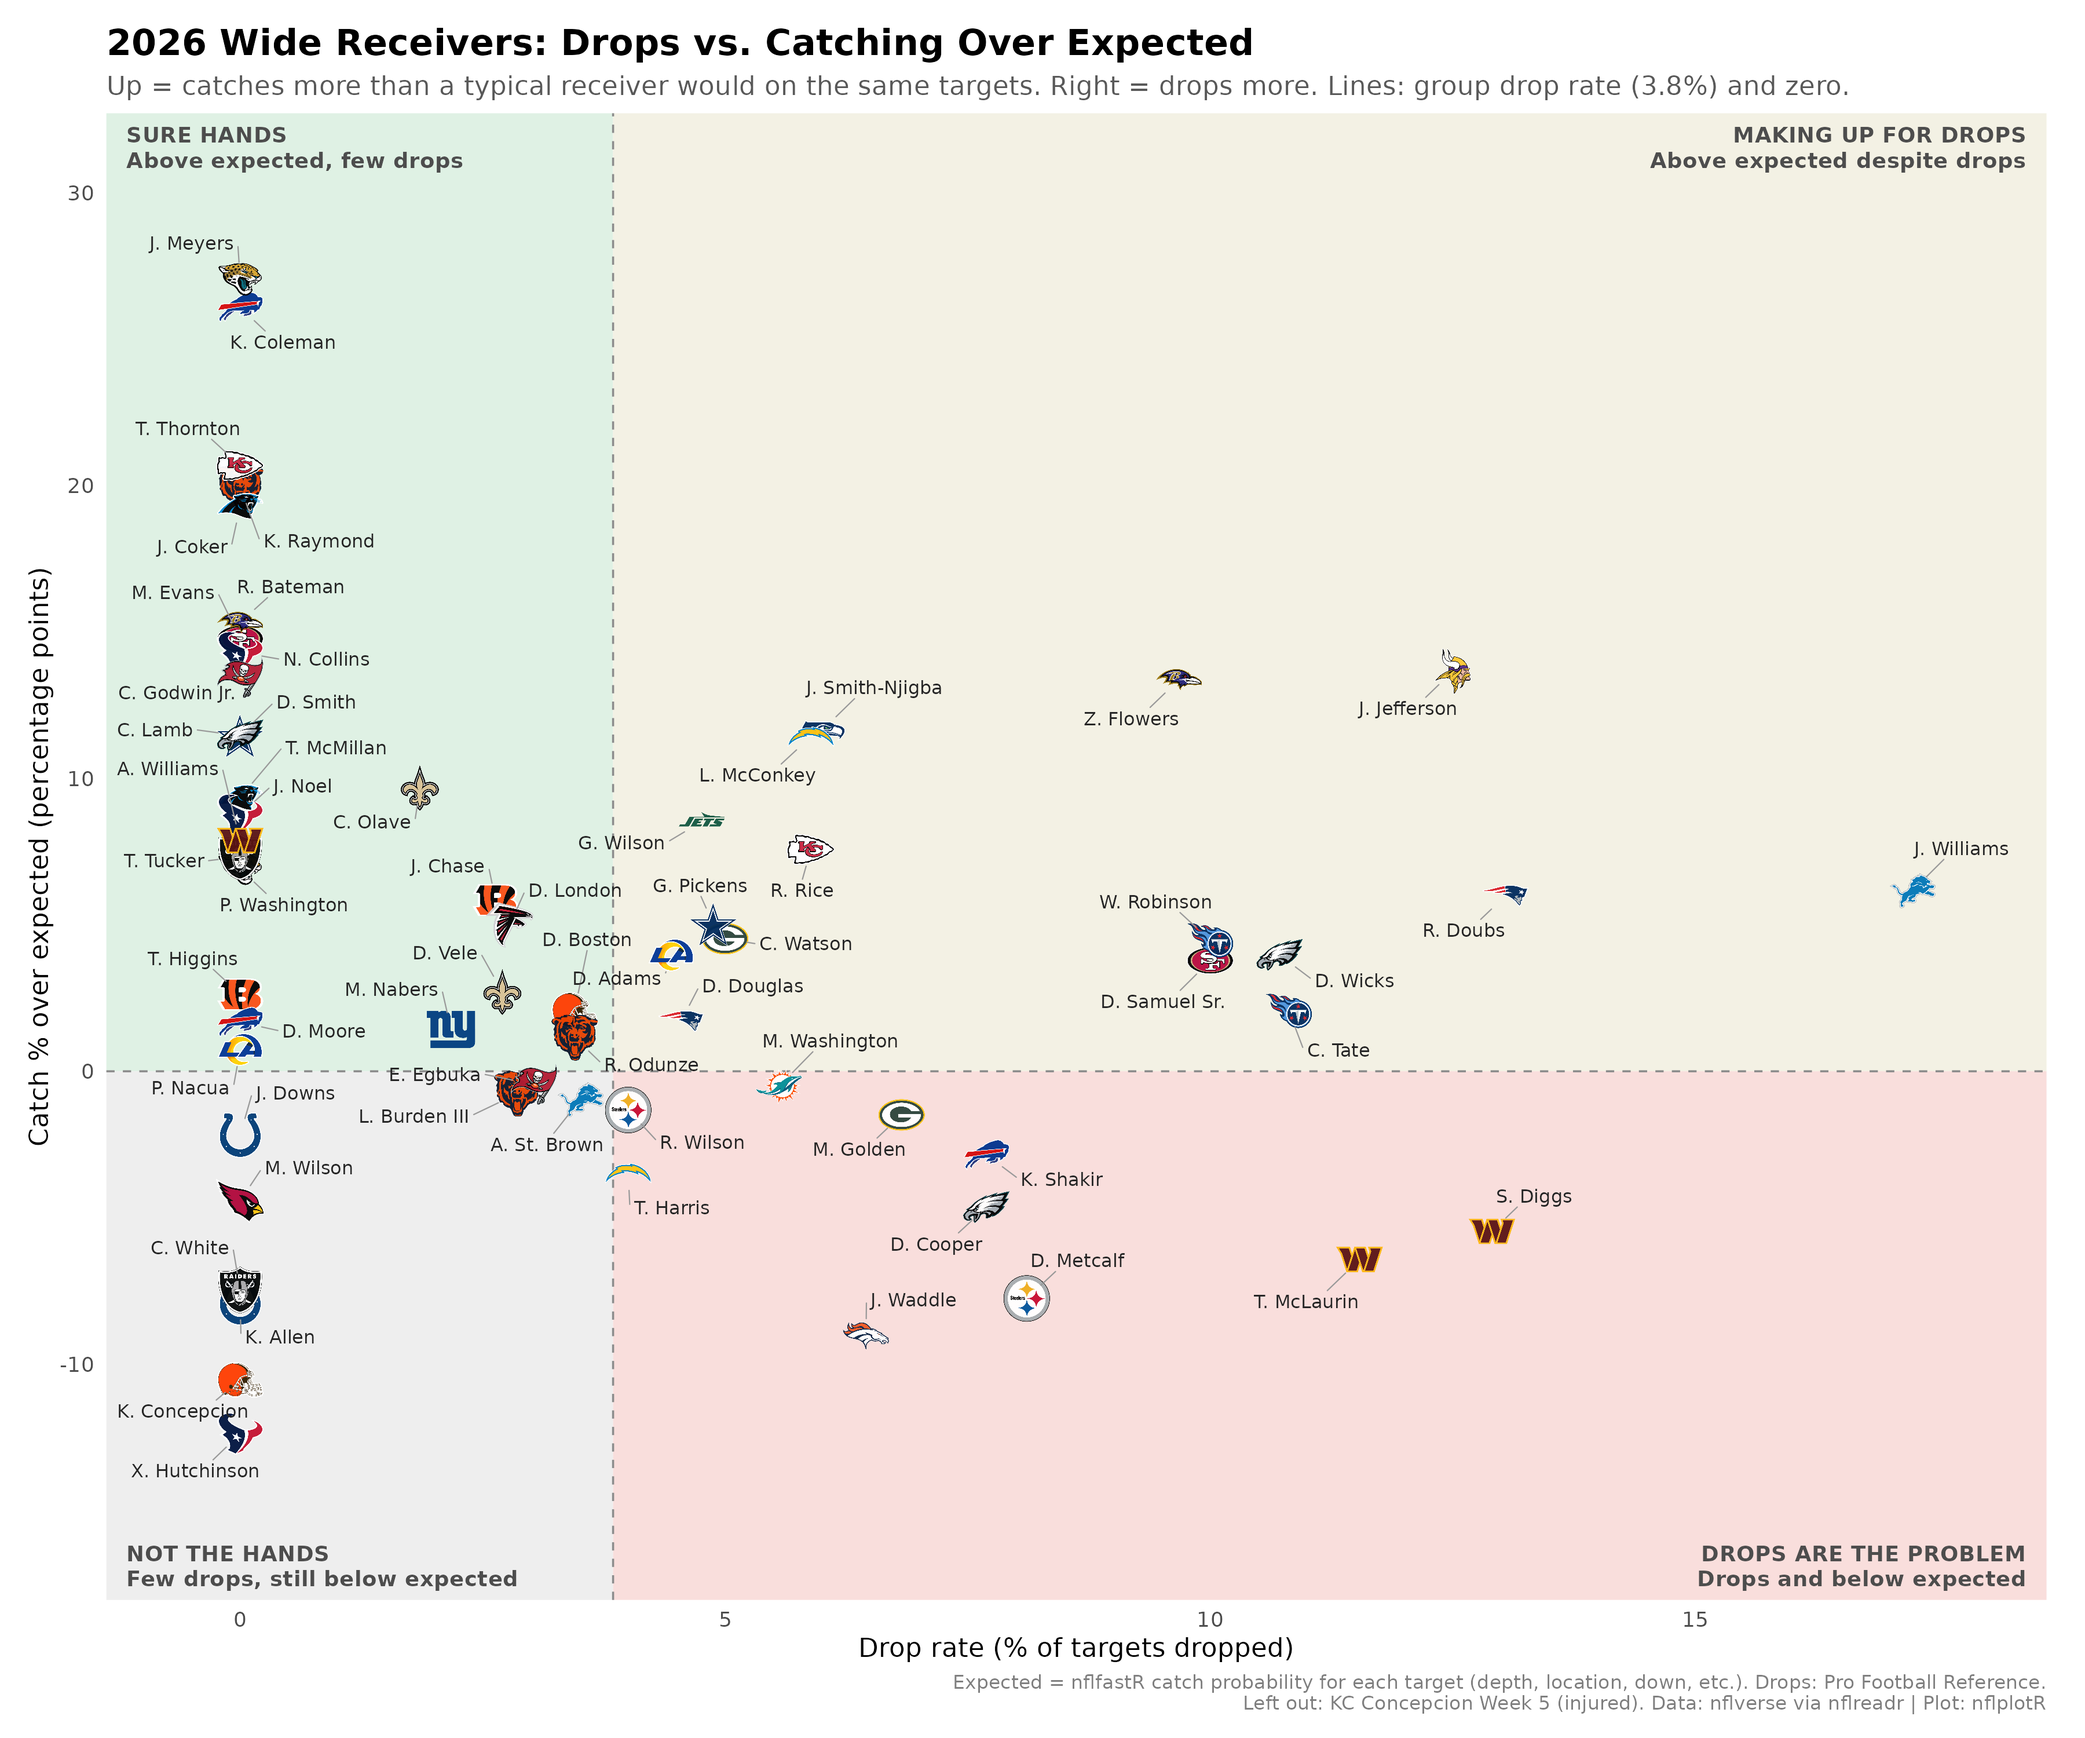
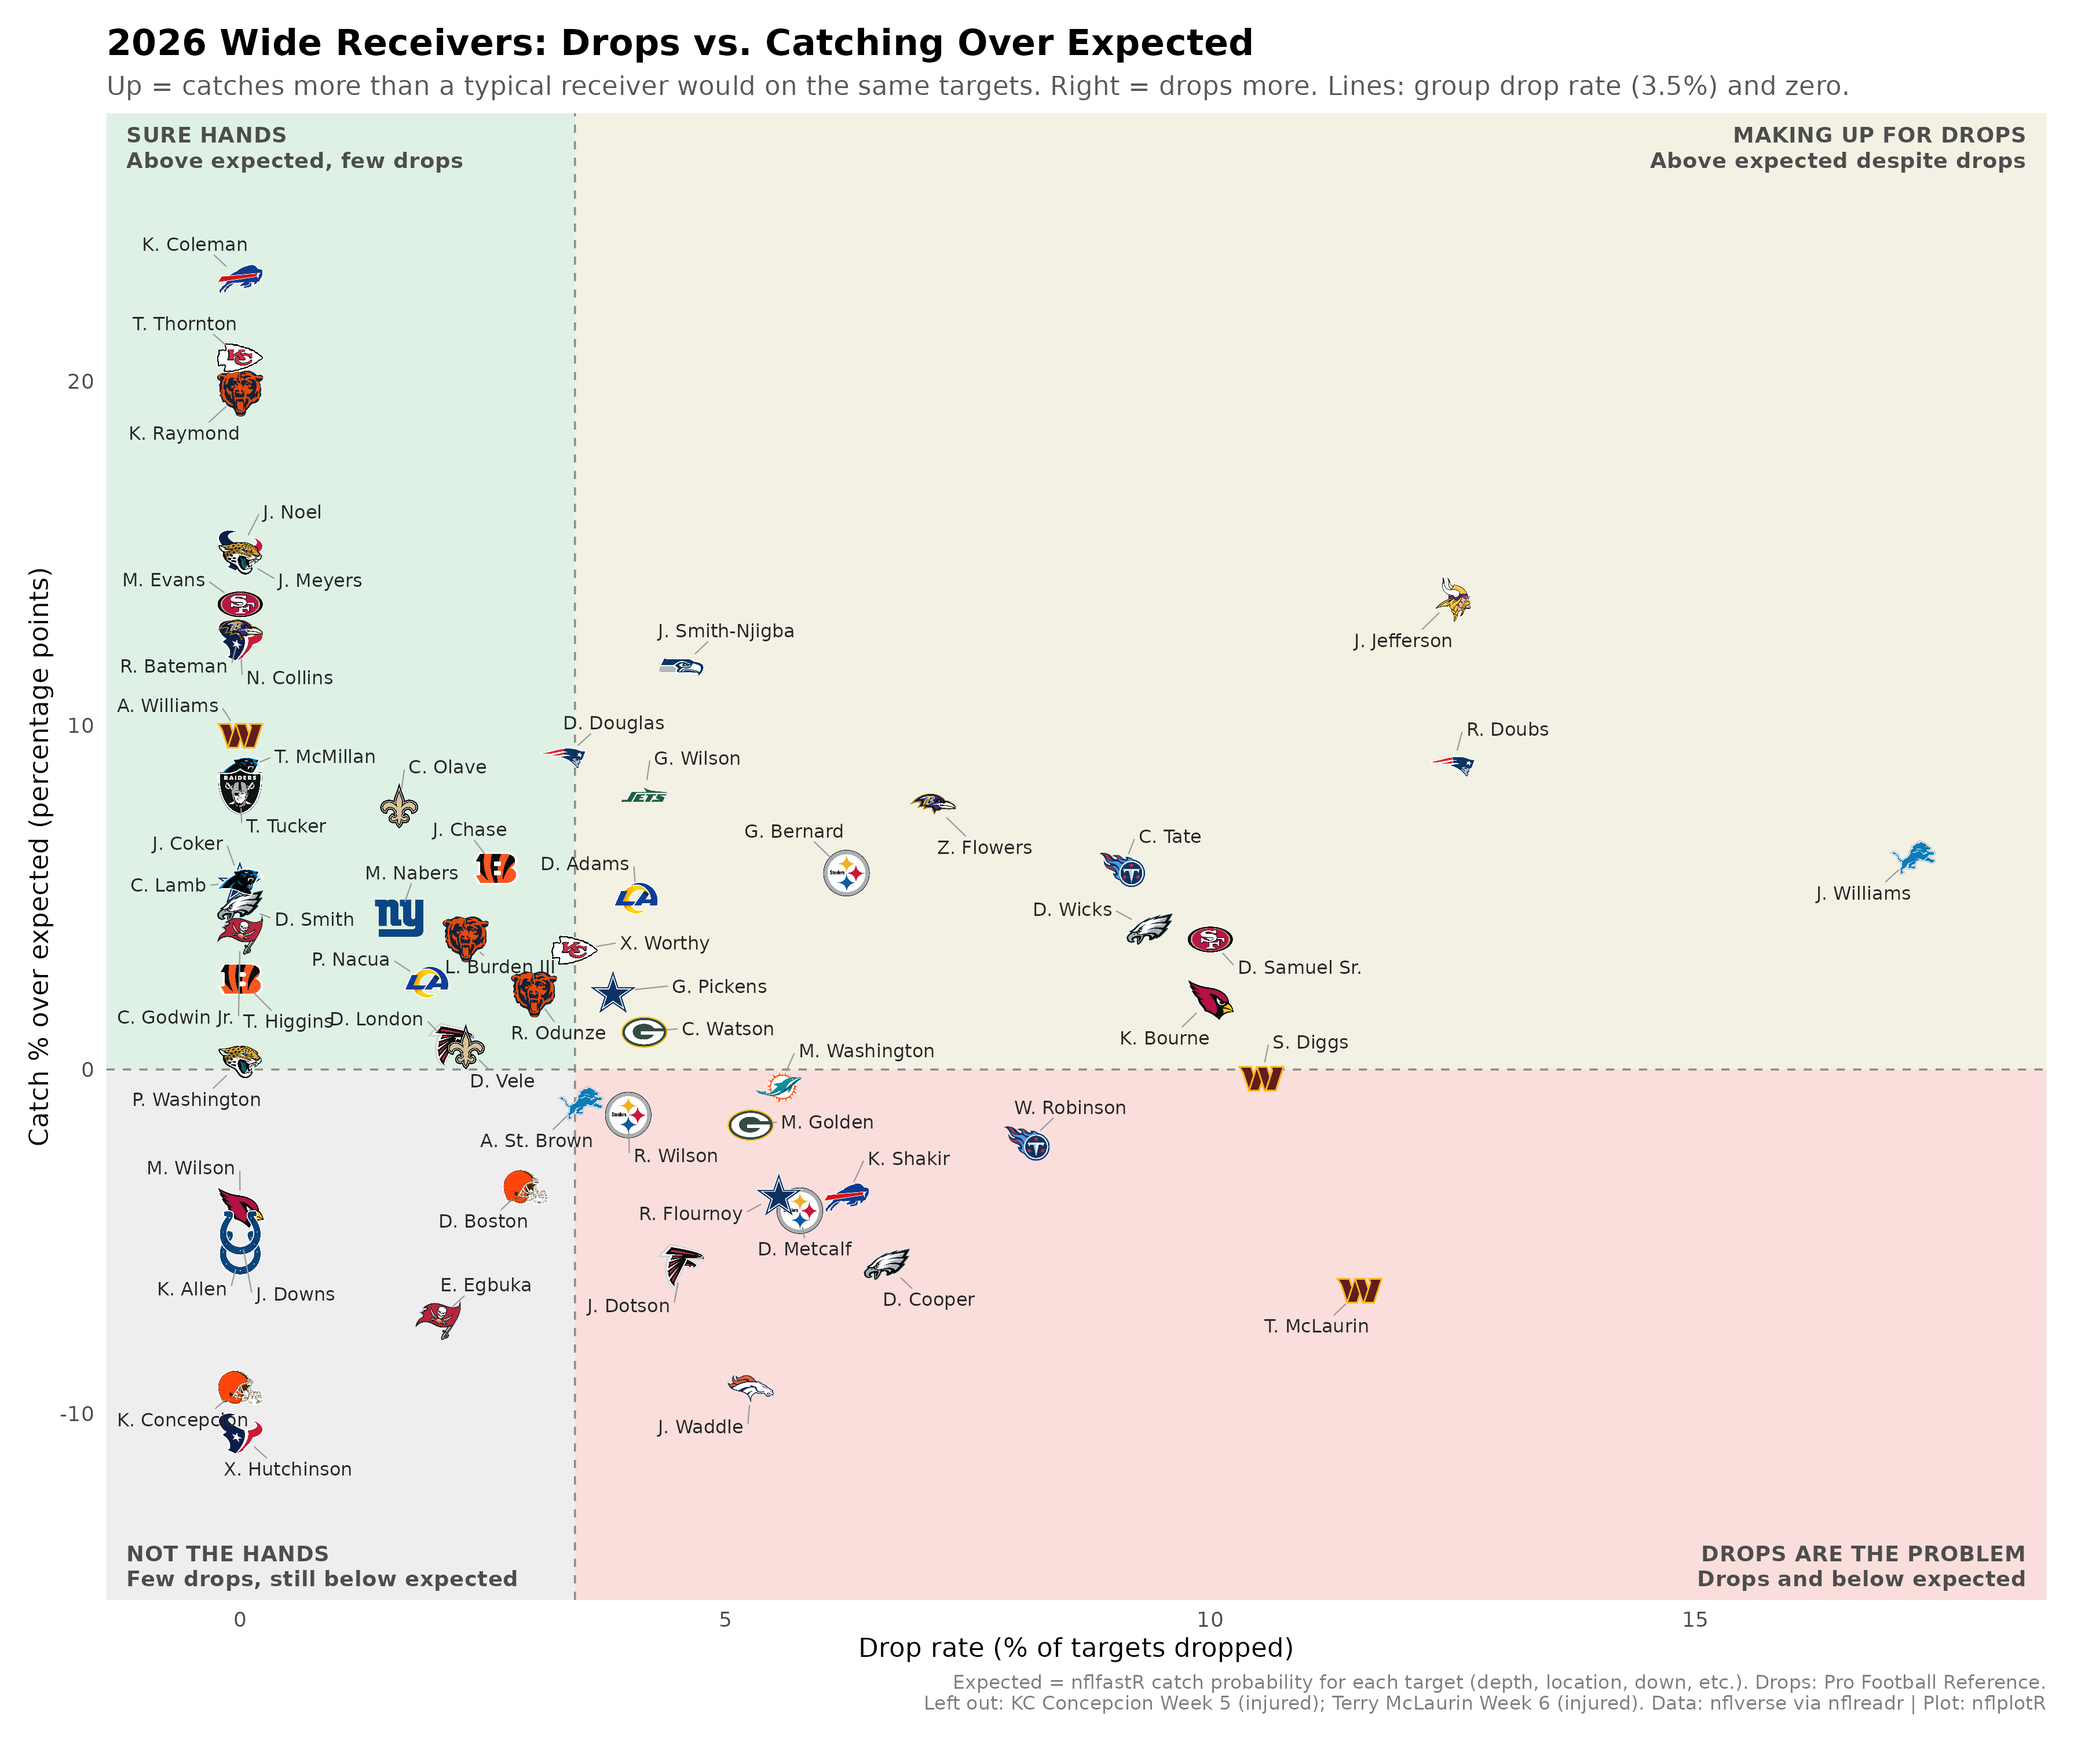
WR charts and catch-quality table through all of Week 6
Leave out Terry McLaurin's Week 6 (injured after one catch) alongside
KC Concepcion's Week 5.

Claude-Session: https://claude.ai/code/session_01T3MxV1CJCZUZ2BwivdaqN5

diff --git a/analysis/wr-catch-quality/wr_catch_quality_2026.md b/analysis/wr-catch-quality/wr_catch_quality_2026.md
@@ -3,68 +3,68 @@
 - **Avg catch probability %**: how often a typical receiver catches targets like his (nflfastR model). Lower = harder targets (deeper, tighter windows, worse spots).
 - **Catch % over expected**: his catch rate minus that average, on targets with a catch probability. Positive = catching more than expected.
 - **Drop rate %**: Pro Football Reference drops divided by targets.
-- Group drop rate: 3.8%. Left out: KC Concepcion Week 5 (injured).
+- Group drop rate: 3.5%. Left out: KC Concepcion Week 5 (injured); Terry McLaurin Week 6 (injured).
 
 | Player | Team | Games | Targets | Catches | Catch % | Avg catch probability % | Catch % over expected | Drops | Drop rate % |
 |---|---|---|---|---|---|---|---|---|---|
-| Jakobi Meyers | JAX | 5 | 18 | 15 | 83.3 | 56.3 | 27.0 | 0 | 0.0 |
-| Keon Coleman | BUF | 5 | 18 | 15 | 83.3 | 57.2 | 26.1 | 0 | 0.0 |
+| Keon Coleman | BUF | 6 | 24 | 19 | 79.2 | 56.2 | 23.0 | 0 | 0.0 |
 | Tyquan Thornton | KC | 4 | 15 | 11 | 73.3 | 52.6 | 20.7 | 0 | 0.0 |
-| Kalif Raymond | CHI | 5 | 27 | 24 | 88.9 | 68.9 | 20.0 | 0 | 0.0 |
-| Jalen Coker | CAR | 3 | 22 | 18 | 81.8 | 62.5 | 19.3 | 0 | 0.0 |
-| Rashod Bateman | BAL | 5 | 21 | 16 | 76.2 | 60.9 | 15.3 | 0 | 0.0 |
-| Mike Evans | SF | 5 | 34 | 24 | 70.6 | 55.8 | 14.8 | 0 | 0.0 |
-| Nico Collins | HOU | 3 | 25 | 19 | 76.0 | 61.7 | 14.3 | 0 | 0.0 |
+| Kalif Raymond | CHI | 6 | 29 | 26 | 89.7 | 70.0 | 19.6 | 0 | 0.0 |
+| Jaylin Noel | HOU | 6 | 21 | 17 | 81.0 | 65.9 | 15.1 | 0 | 0.0 |
+| Jakobi Meyers | JAX | 6 | 28 | 20 | 71.4 | 56.6 | 14.9 | 0 | 0.0 |
 | Justin Jefferson | MIN | 4 | 24 | 19 | 79.2 | 65.5 | 13.7 | 3 | 12.5 |
-| Chris Godwin Jr. | TB | 5 | 21 | 19 | 90.5 | 77.0 | 13.4 | 0 | 0.0 |
-| Zay Flowers | BAL | 4 | 31 | 26 | 83.9 | 70.5 | 13.4 | 3 | 9.7 |
-| Jaxon Smith-Njigba | SEA | 5 | 50 | 37 | 74.0 | 62.4 | 11.6 | 3 | 6.0 |
-| DeVonta Smith | PHI | 3 | 27 | 19 | 70.4 | 58.9 | 11.5 | 0 | 0.0 |
-| CeeDee Lamb | DAL | 5 | 51 | 39 | 76.5 | 65.0 | 11.5 | 0 | 0.0 |
-| Ladd McConkey | LAC | 4 | 17 | 12 | 70.6 | 59.2 | 11.4 | 1 | 5.9 |
-| Chris Olave | NO | 5 | 54 | 39 | 72.2 | 62.5 | 9.7 | 1 | 1.9 |
-| Tetairoa McMillan | CAR | 4 | 39 | 26 | 66.7 | 57.3 | 9.4 | 0 | 0.0 |
-| Jaylin Noel | HOU | 5 | 17 | 13 | 76.5 | 67.7 | 8.8 | 0 | 0.0 |
-| Garrett Wilson | NYJ | 5 | 42 | 31 | 73.8 | 65.3 | 8.5 | 2 | 4.8 |
-| Antonio Williams | WAS | 5 | 22 | 15 | 68.2 | 60.3 | 7.9 | 0 | 0.0 |
-| Rashee Rice | KC | 3 | 17 | 13 | 76.5 | 68.9 | 7.6 | 1 | 5.9 |
-| Tre Tucker | LV | 5 | 28 | 19 | 67.9 | 60.5 | 7.3 | 0 | 0.0 |
-| Parker Washington | JAX | 5 | 35 | 22 | 62.9 | 55.9 | 6.9 | 0 | 0.0 |
+| Mike Evans | SF | 6 | 39 | 27 | 69.2 | 55.7 | 13.5 | 0 | 0.0 |
+| Rashod Bateman | BAL | 6 | 22 | 16 | 72.7 | 60.0 | 12.8 | 0 | 0.0 |
+| Nico Collins | HOU | 4 | 30 | 22 | 73.3 | 60.9 | 12.5 | 0 | 0.0 |
+| Jaxon Smith-Njigba | SEA | 6 | 66 | 49 | 74.2 | 62.5 | 11.7 | 3 | 4.5 |
+| Antonio Williams | WAS | 6 | 26 | 18 | 69.2 | 59.5 | 9.7 | 0 | 0.0 |
+| DeMario Douglas | NE | 6 | 30 | 20 | 66.7 | 57.6 | 9.0 | 1 | 3.3 |
+| Romeo Doubs | NE | 6 | 24 | 14 | 58.3 | 49.5 | 8.8 | 3 | 12.5 |
+| Tetairoa McMillan | CAR | 5 | 48 | 32 | 66.7 | 58.0 | 8.7 | 0 | 0.0 |
+| Tre Tucker | LV | 6 | 35 | 24 | 68.6 | 60.5 | 8.1 | 0 | 0.0 |
+| Garrett Wilson | NYJ | 6 | 48 | 35 | 72.9 | 65.0 | 7.9 | 2 | 4.2 |
+| Zay Flowers | BAL | 5 | 42 | 32 | 76.2 | 68.5 | 7.7 | 3 | 7.1 |
+| Chris Olave | NO | 6 | 61 | 43 | 70.5 | 62.8 | 7.7 | 1 | 1.6 |
 | Jameson Williams | DET | 5 | 29 | 18 | 62.1 | 55.9 | 6.2 | 5 | 17.2 |
-| Romeo Doubs | NE | 5 | 23 | 13 | 56.5 | 50.5 | 6.0 | 3 | 13.0 |
 | Ja'Marr Chase | CIN | 5 | 38 | 27 | 71.1 | 65.2 | 5.8 | 1 | 2.6 |
-| George Pickens | DAL | 5 | 41 | 27 | 65.9 | 60.8 | 5.0 | 2 | 4.9 |
-| Drake London | ATL | 5 | 36 | 27 | 75.0 | 70.0 | 5.0 | 1 | 2.8 |
-| Christian Watson | GB | 5 | 40 | 26 | 65.0 | 60.5 | 4.5 | 2 | 5.0 |
-| Wan'Dale Robinson | TEN | 5 | 30 | 22 | 73.3 | 68.9 | 4.5 | 3 | 10.0 |
-| Dontayvion Wicks | PHI | 5 | 28 | 17 | 60.7 | 56.7 | 4.0 | 3 | 10.7 |
-| Davante Adams | LA | 5 | 45 | 27 | 60.0 | 56.0 | 4.0 | 2 | 4.4 |
+| Carnell Tate | TEN | 6 | 44 | 29 | 65.9 | 60.1 | 5.8 | 4 | 9.1 |
+| Germie Bernard | PIT | 5 | 32 | 24 | 75.0 | 69.3 | 5.7 | 2 | 6.2 |
+| Jalen Coker | CAR | 4 | 35 | 24 | 68.6 | 63.1 | 5.5 | 0 | 0.0 |
+| CeeDee Lamb | DAL | 6 | 69 | 48 | 69.6 | 64.1 | 5.4 | 0 | 0.0 |
+| Davante Adams | LA | 6 | 49 | 30 | 61.2 | 56.3 | 5.0 | 2 | 4.1 |
+| DeVonta Smith | PHI | 4 | 41 | 26 | 63.4 | 58.7 | 4.7 | 0 | 0.0 |
+| Malik Nabers | NYG | 6 | 61 | 41 | 67.2 | 62.8 | 4.4 | 1 | 1.6 |
+| Dontayvion Wicks | PHI | 6 | 32 | 19 | 59.4 | 55.3 | 4.1 | 3 | 9.4 |
+| Chris Godwin Jr. | TB | 6 | 29 | 23 | 79.3 | 75.4 | 3.9 | 0 | 0.0 |
 | Deebo Samuel Sr. | SF | 5 | 20 | 16 | 80.0 | 76.2 | 3.8 | 2 | 10.0 |
-| Devaughn Vele | NO | 5 | 37 | 25 | 67.6 | 64.9 | 2.7 | 1 | 2.7 |
+| Luther Burden III | CHI | 6 | 43 | 31 | 72.1 | 68.3 | 3.8 | 1 | 2.3 |
+| Xavier Worthy | KC | 5 | 29 | 21 | 72.4 | 68.9 | 3.5 | 1 | 3.4 |
 | Tee Higgins | CIN | 5 | 43 | 27 | 62.8 | 60.2 | 2.6 | 0 | 0.0 |
-| Denzel Boston | CLE | 5 | 29 | 16 | 55.2 | 53.1 | 2.1 | 1 | 3.4 |
-| Carnell Tate | TEN | 5 | 37 | 23 | 62.2 | 60.1 | 2.1 | 4 | 10.8 |
-| DeMario Douglas | NE | 5 | 22 | 13 | 59.1 | 57.4 | 1.7 | 1 | 4.5 |
-| DJ Moore | BUF | 4 | 20 | 12 | 60.0 | 58.3 | 1.7 | 0 | 0.0 |
-| Malik Nabers | NYG | 5 | 46 | 29 | 63.0 | 61.6 | 1.4 | 1 | 2.2 |
-| Rome Odunze | CHI | 5 | 29 | 17 | 58.6 | 57.5 | 1.1 | 1 | 3.4 |
-| Puka Nacua | LA | 3 | 45 | 31 | 68.9 | 68.1 | 0.7 | 0 | 0.0 |
-| Emeka Egbuka | TB | 5 | 33 | 21 | 63.6 | 64.1 | -0.5 | 1 | 3.0 |
+| Puka Nacua | LA | 4 | 52 | 37 | 71.2 | 68.6 | 2.5 | 1 | 1.9 |
+| George Pickens | DAL | 6 | 52 | 33 | 63.5 | 61.2 | 2.3 | 2 | 3.8 |
+| Rome Odunze | CHI | 6 | 33 | 20 | 60.6 | 58.4 | 2.2 | 1 | 3.0 |
+| Kendrick Bourne | ARI | 5 | 30 | 22 | 73.3 | 71.3 | 2.0 | 3 | 10.0 |
+| Christian Watson | GB | 6 | 48 | 29 | 60.4 | 59.3 | 1.1 | 2 | 4.2 |
+| Drake London | ATL | 6 | 46 | 31 | 67.4 | 66.7 | 0.7 | 1 | 2.2 |
+| Devaughn Vele | NO | 6 | 43 | 28 | 65.1 | 64.5 | 0.7 | 1 | 2.3 |
+| Parker Washington | JAX | 6 | 46 | 26 | 56.5 | 56.3 | 0.2 | 0 | 0.0 |
+| Stefon Diggs | WAS | 5 | 38 | 24 | 63.2 | 63.4 | -0.3 | 4 | 10.5 |
 | Malik Washington | MIA | 5 | 36 | 23 | 63.9 | 64.4 | -0.5 | 2 | 5.6 |
-| Luther Burden III | CHI | 5 | 35 | 23 | 65.7 | 66.5 | -0.8 | 1 | 2.9 |
 | Amon-Ra St. Brown | DET | 5 | 57 | 37 | 64.9 | 65.9 | -1.0 | 2 | 3.5 |
 | Roman Wilson | PIT | 5 | 25 | 14 | 56.0 | 57.3 | -1.3 | 1 | 4.0 |
-| Matthew Golden | GB | 5 | 44 | 24 | 54.5 | 56.0 | -1.5 | 3 | 6.8 |
-| Josh Downs | IND | 5 | 34 | 20 | 58.8 | 61.0 | -2.2 | 0 | 0.0 |
-| Khalil Shakir | BUF | 5 | 26 | 18 | 69.2 | 72.1 | -2.9 | 2 | 7.7 |
-| Tre Harris | LAC | 5 | 25 | 15 | 60.0 | 63.5 | -3.5 | 1 | 4.0 |
-| Michael Wilson | ARI | 5 | 51 | 29 | 56.9 | 61.3 | -4.4 | 0 | 0.0 |
-| Darius Cooper | PHI | 5 | 13 | 7 | 53.8 | 58.5 | -4.6 | 1 | 7.7 |
-| Stefon Diggs | WAS | 4 | 31 | 18 | 58.1 | 63.5 | -5.5 | 4 | 12.9 |
+| Matthew Golden | GB | 6 | 57 | 30 | 52.6 | 54.2 | -1.6 | 3 | 5.3 |
+| Wan'Dale Robinson | TEN | 6 | 37 | 25 | 67.6 | 69.7 | -2.2 | 3 | 8.1 |
+| Denzel Boston | CLE | 6 | 34 | 17 | 50.0 | 53.4 | -3.4 | 1 | 2.9 |
+| Ryan Flournoy | DAL | 6 | 36 | 23 | 63.9 | 67.5 | -3.6 | 2 | 5.6 |
+| Khalil Shakir | BUF | 6 | 32 | 22 | 68.8 | 72.5 | -3.7 | 2 | 6.2 |
+| Michael Wilson | ARI | 6 | 58 | 33 | 56.9 | 60.9 | -4.0 | 0 | 0.0 |
+| DK Metcalf | PIT | 6 | 52 | 30 | 57.7 | 61.8 | -4.1 | 3 | 5.8 |
+| Josh Downs | IND | 6 | 42 | 24 | 57.1 | 61.9 | -4.7 | 0 | 0.0 |
+| Keenan Allen | IND | 5 | 40 | 26 | 65.0 | 70.3 | -5.3 | 0 | 0.0 |
+| Darius Cooper | PHI | 6 | 15 | 8 | 53.3 | 59.0 | -5.7 | 1 | 6.7 |
+| Jahan Dotson | ATL | 6 | 22 | 11 | 50.0 | 55.7 | -5.7 | 1 | 4.5 |
 | Terry McLaurin | WAS | 4 | 26 | 14 | 53.8 | 60.3 | -6.4 | 3 | 11.5 |
-| Cody White | LV | 5 | 14 | 7 | 50.0 | 57.5 | -7.5 | 0 | 0.0 |
-| DK Metcalf | PIT | 5 | 37 | 19 | 51.4 | 59.1 | -7.8 | 3 | 8.1 |
-| Keenan Allen | IND | 4 | 29 | 18 | 62.1 | 70.0 | -7.9 | 0 | 0.0 |
-| Jaylen Waddle | DEN | 5 | 31 | 18 | 58.1 | 67.1 | -9.0 | 2 | 6.5 |
-| KC Concepcion | CLE | 4 | 28 | 17 | 60.7 | 71.3 | -10.5 | 0 | 0.0 |
-| Xavier Hutchinson | HOU | 5 | 31 | 16 | 51.6 | 64.0 | -12.4 | 0 | 0.0 |
+| Emeka Egbuka | TB | 6 | 49 | 28 | 57.1 | 64.4 | -7.3 | 1 | 2.0 |
+| KC Concepcion | CLE | 5 | 34 | 21 | 61.8 | 71.0 | -9.2 | 0 | 0.0 |
+| Jaylen Waddle | DEN | 6 | 38 | 22 | 57.9 | 67.2 | -9.3 | 2 | 5.3 |
+| Xavier Hutchinson | HOU | 6 | 34 | 18 | 52.9 | 63.5 | -10.6 | 0 | 0.0 |
